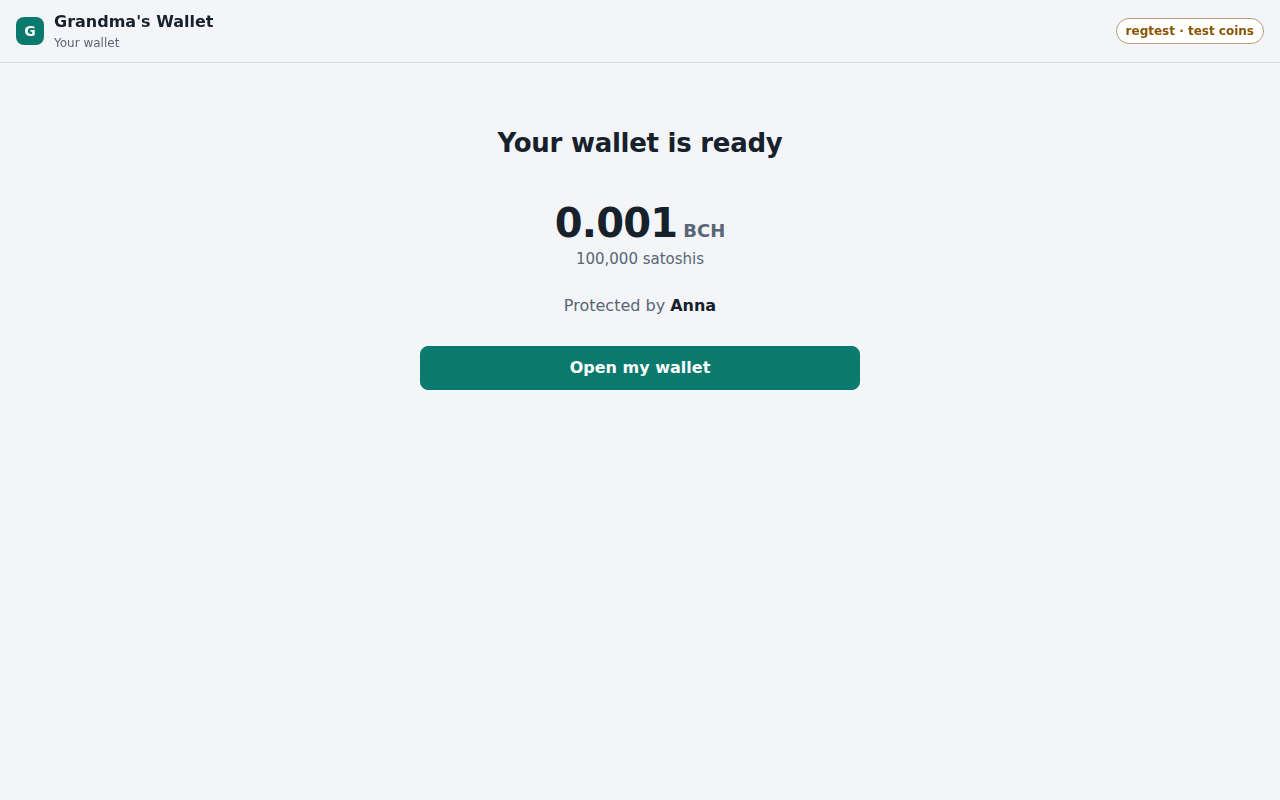
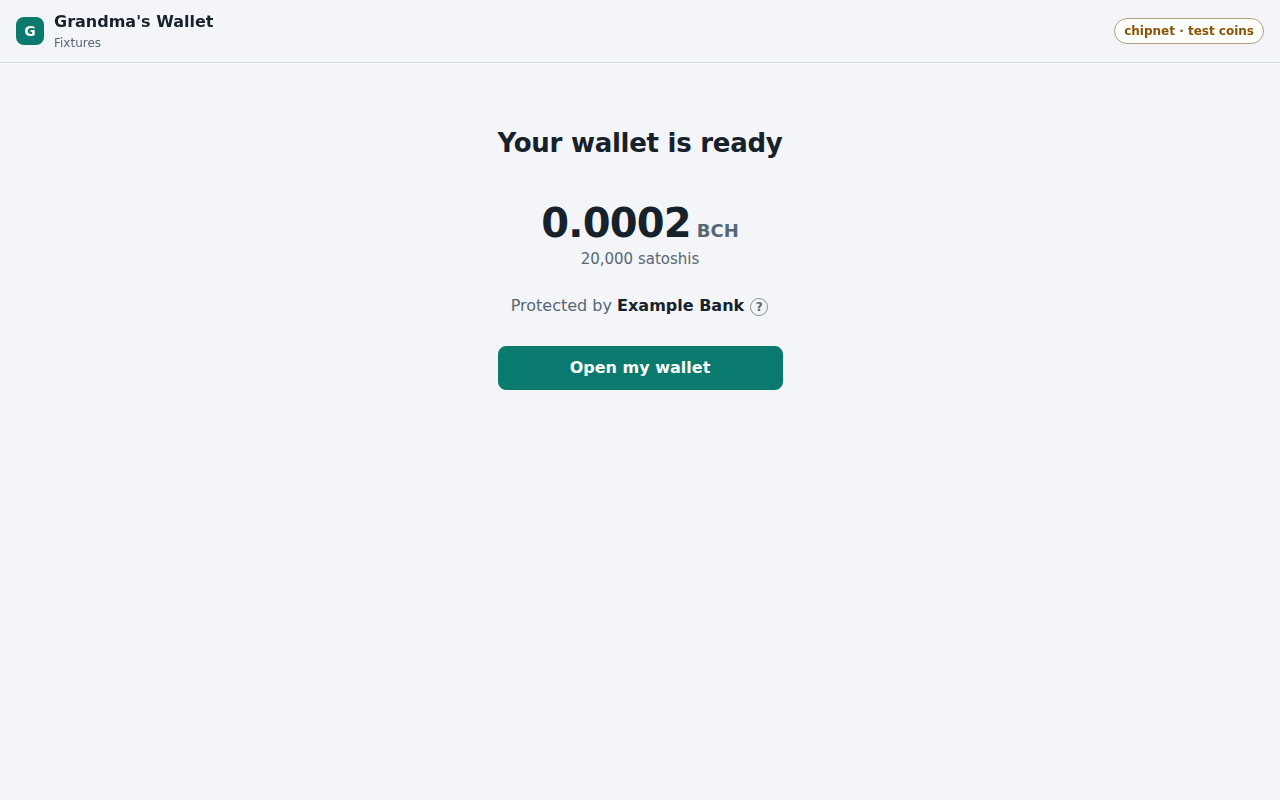
Explain the set-up screens behind a tap, and start test networks on the shortest waiting period
The wallet's new set-up, lost-phone and change-of-recoverer screens
keep their explanations behind a question mark. A recoverer on a test
network starts with the shortest waiting period, so that moving a
wallet to a new phone can be tried without a day's wait.

diff --git a/apps/wallet/src/SetUp.tsx b/apps/wallet/src/SetUp.tsx
@@ -2,7 +2,7 @@ import { hexToBin } from '@bitauth/libauth';
 import { type OwnerWallet, type OwnerWalletState, describeDelay, finishSetUp, firstAddressFor, requestSetUp } from '@grandmas-wallet/app';
 import type { Created } from '@grandmas-wallet/connect/recoverer';
 import type { ChallengeDelay } from '@grandmas-wallet/core';
-import { Button, Spinner, formatBch, formatSatoshis, plainError } from '@grandmas-wallet/ui';
+import { Button, Info, Spinner, formatBch, formatSatoshis, plainError } from '@grandmas-wallet/ui';
 import { useEffect, useRef, useState } from 'preact/hooks';
 
 import { askToSetUp, leaveRecoverer, meetRecoverer } from './hand-to-recoverer.js';
@@ -156,8 +156,8 @@ export const SettingUpView = ({
       </div>
       {challengeDelay !== undefined && (
         <p class="small muted center">
-          Waiting period {describeDelay(challengeDelay)}
-          {/* info: If you lose this phone, they can move your wallet to a new one. They have to ask in public first, and for this long this phone can say no. They can never spend your coins. */}
+          Waiting period {describeDelay(challengeDelay)}{' '}
+          <Info label="What the waiting period is">If you lose this phone, they can move your wallet to a new one. They have to ask in public first, and for this long this phone can say no. They can never spend your coins.</Info>
         </p>
       )}
     </div>
@@ -178,8 +178,8 @@ export const Ready = ({ name, startingSatoshis, onOpen }: { name: string; starti
       <span class="balance-sub">{formatSatoshis(startingSatoshis)} satoshis</span>
     </div>
     <p class="set-up-protected">
-      Protected by <strong>{name || 'your recoverer'}</strong>
-      {/* info: If you lose this phone, they can move your wallet to a new one after a waiting period, during which this phone can say no. They can see what the wallet holds and can never spend from it. */}
+      Protected by <strong>{name || 'your recoverer'}</strong>{' '}
+      <Info label="What protected means">If you lose this phone, they can move your wallet to a new one after a waiting period, during which this phone can say no. They can see what the wallet holds and can never spend from it.</Info>
     </p>
     <div class="set-up-actions">
       <Button block onClick={onOpen}>

diff --git a/apps/wallet/src/Recovery.tsx b/apps/wallet/src/Recovery.tsx
@@ -3,7 +3,7 @@ import { type NewSeedPreparation, describeDelay, enroll, makeUserBackup, sendUpd
 import { makeLink, readLink } from '@grandmas-wallet/app/links';
 import type { ChallengeDelay } from '@grandmas-wallet/core';
 import { sealedOfLink } from '@grandmas-wallet/app/hand-off';
-import { Button, Card, Choice, Field, Fingerprint, HandOff, KeyValues, LinkRow, Notice, PageHead, Segmented, TaskStatus, TextArea, CopyButton, download, useTask } from '@grandmas-wallet/ui';
+import { Button, Card, Choice, Field, Fingerprint, HandOff, Info, KeyValues, LinkRow, Notice, PageHead, Segmented, TaskStatus, TextArea, CopyButton, download, useTask } from '@grandmas-wallet/ui';
 import { useEffect, useState } from 'preact/hooks';
 
 import type { Owner } from './OwnerApp.js';
@@ -272,7 +272,10 @@ const NewRecoverer = ({ owner, onBack }: { owner: Owner; onBack: () => void }) =
         </Card>
         <Card title="2. The change">
           {changing ? <ChangeState owner={owner} /> : <Notice tone="good">The wallet names {name} as its recoverer.</Notice>}
-          {/* info: The earlier recoverer's key stops working on the wallet. They keep what they were given and can go on seeing the addresses they know; to end that, also move to a new phone afterwards. */}
+          <p class="small muted">
+            What this means for the earlier recoverer{' '}
+            <Info label="About the earlier recoverer">The earlier recoverer's key stops working on the wallet. They keep what they were given and can go on seeing the addresses they know; to end that, also move to a new phone afterwards.</Info>
+          </p>
           <div class="actions">
             {changing && (
               <Button

diff --git a/apps/wallet/src/Takeover.tsx b/apps/wallet/src/Takeover.tsx
@@ -1,7 +1,7 @@
 import { hexToBin } from '@bitauth/libauth';
 import { type OwnerWallet, finishTakeover, startTakeover } from '@grandmas-wallet/app';
 import { makeLink } from '@grandmas-wallet/app/links';
-import { Button, Field, More, Spinner, TaskStatus, TextArea, useTask } from '@grandmas-wallet/ui';
+import { Button, Field, Info, More, Spinner, TaskStatus, TextArea, useTask } from '@grandmas-wallet/ui';
 import { useEffect, useState } from 'preact/hooks';
 
 import { followHandOver, handToRecoverer, leaveRecoverer, useHanding } from './hand-to-recoverer.js';
@@ -99,9 +99,13 @@ const Waiting = ({ session, onDone, onAgain }: { session: Session; onDone: (wall
         {failed ? (
           <p class="set-up-problem">{handing?.reason ?? `${name}'s page did not answer. Keep it open and try again.`}</p>
         ) : (
-          <p class="muted">Keep this page. You can close it and come back.</p>
+          <p class="muted">
+            Keep this page. You can close it and come back.{' '}
+            <Info label="What happens while you wait">
+              Your helper asks the network to move your wallet to this phone. Then a waiting period runs, in public, during which your old phone could refuse. Afterwards your helper completes the move and this phone receives the wallet.
+            </Info>
+          </p>
         )}
-        {/* info: Your helper asks the network to move your wallet to this phone. Then a waiting period runs, in public, during which your old phone could refuse. Afterwards your helper completes the move and this phone receives the wallet. */}
       </div>
       {failed && (
         <div class="set-up-actions">

diff --git a/apps/recoverer/src/session.ts b/apps/recoverer/src/session.ts
@@ -69,9 +69,13 @@ export interface Kept {
   deskSession: { privateKey: string; secret: string; walletPublicKey?: string; for?: string };
 }
 
-/** Until the recoverer chooses, the starting balance and the waiting period of a new wallet. */
-export const DEFAULT_SETTINGS: Settings = { startingSatoshis: '10000', challengeDelay: { unit: 'time512', value: 169 } };
-export const settingsOf = (): Settings => kept('settings') ?? DEFAULT_SETTINGS;
+/**
+ * Until the recoverer chooses, the starting balance and the waiting period of a new wallet. On a test network
+ * the waiting period starts at the shortest, so that moving a wallet to a new phone can be tried out without
+ * a day's wait; with real coins it starts at a day.
+ */
+let onTestNetwork = false;
+export const settingsOf = (): Settings => kept('settings') ?? { startingSatoshis: '10000', challengeDelay: { unit: 'time512', value: onTestNetwork ? 1 : 169 } };
 
 /**
  * How this page works. A page that held kits before it could be asked keeps working as someone helping people
@@ -116,6 +120,7 @@ export const boot = async (): Promise<Session> => {
     key = { publicKey: binToHex(made.publicKey), privateKey: binToHex(made.privateKey) };
     keep('key', key);
   }
+  onTestNetwork = environment.network !== 'mainnet';
   const { chain, servers } = await connectChain(environment.chain, environment.secondsPerBlock);
   return { environment, network: keyNetwork(environment), chain, servers, storeAt, publicKey: hexToBin(key.publicKey), privateKey: hexToBin(key.privateKey) };
 };

diff --git a/apps/wallet/src/Welcome.tsx b/apps/wallet/src/Welcome.tsx
@@ -1,4 +1,4 @@
-import { Notice } from '@grandmas-wallet/ui';
+import { Info, Notice } from '@grandmas-wallet/ui';
 
 import { type Session, kept } from './session.js';
 
@@ -19,8 +19,10 @@ export const Welcome = ({ session, onChoose }: { session: Session; onChoose: (be
       </div>
       {lost !== undefined && (
         <Notice tone="warn">
-          Your set-up did not hold. Set it up again with {lost.name || 'your recoverer'}.
-          {/* info: The network no longer has the transaction that created your wallet. Coins sent to your addresses are still yours: this phone keeps their keys and moves them into the wallet once it is set up again. */}
+          Your set-up did not hold. Set it up again with {lost.name || 'your recoverer'}.{' '}
+          <Info label="Why the set-up did not hold">
+            The network no longer has the transaction that created your wallet. Coins sent to your addresses are still yours: this phone keeps their keys and moves them into the wallet once it is set up again.
+          </Info>
         </Notice>
       )}
       <div class="choices">
